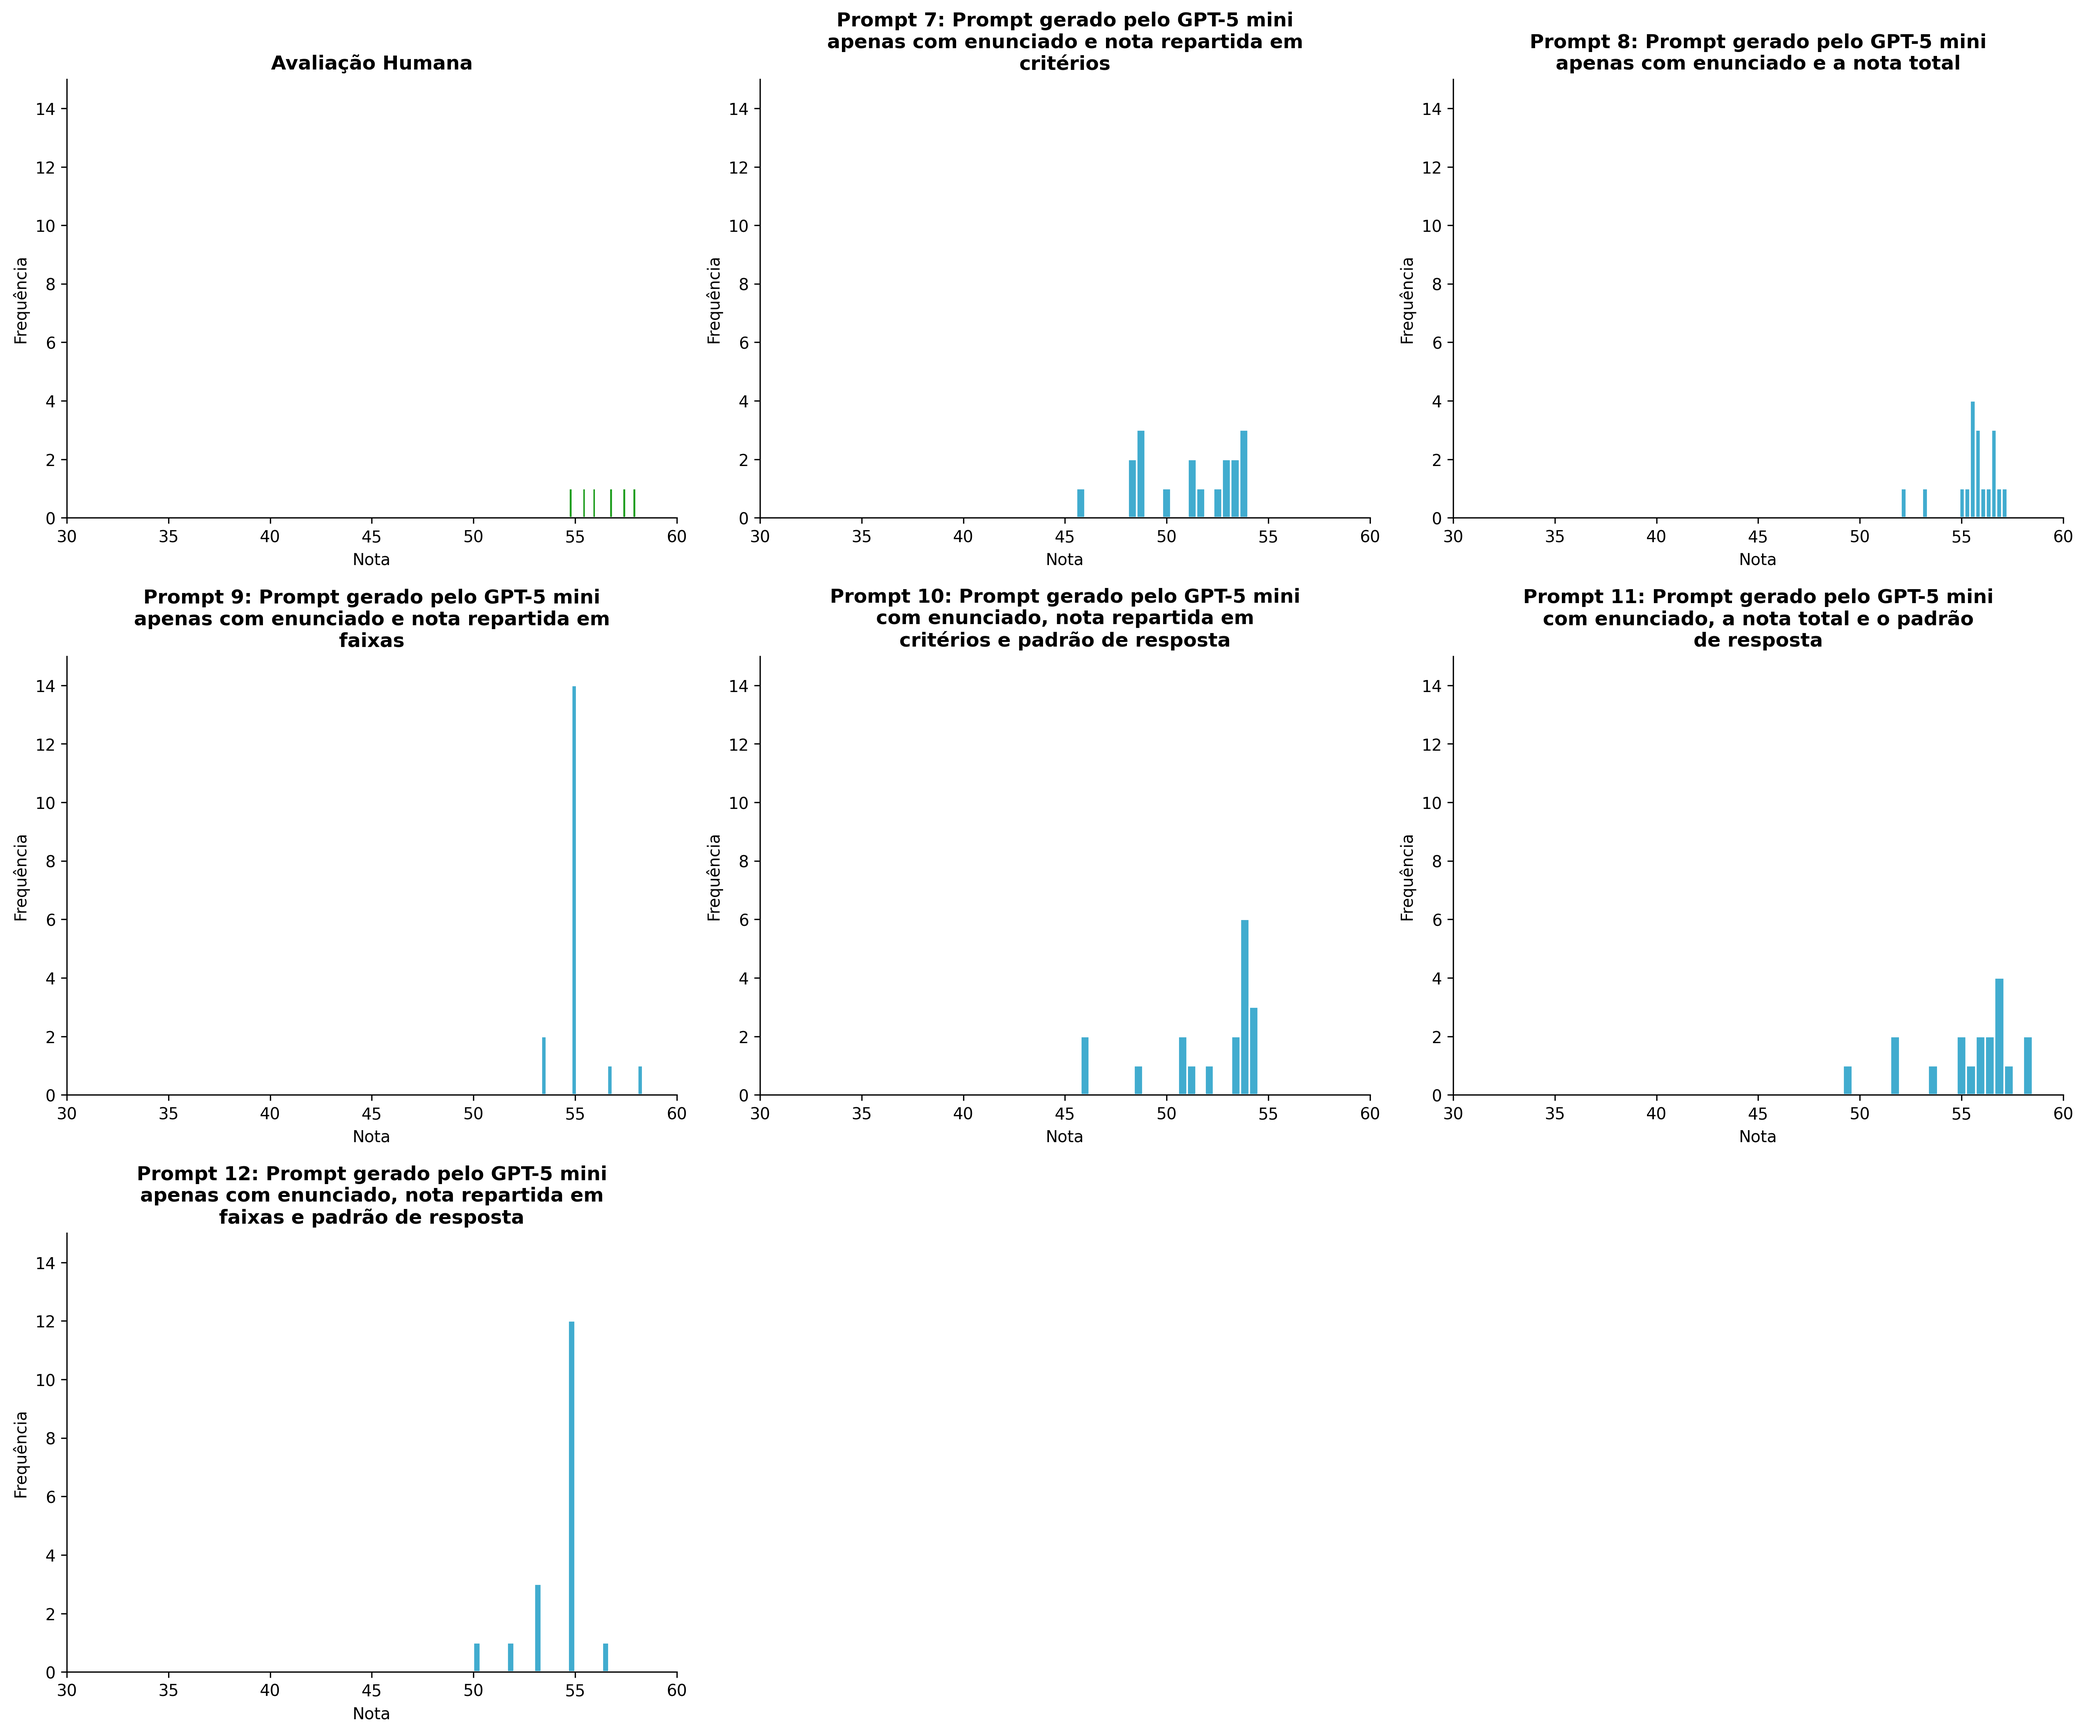
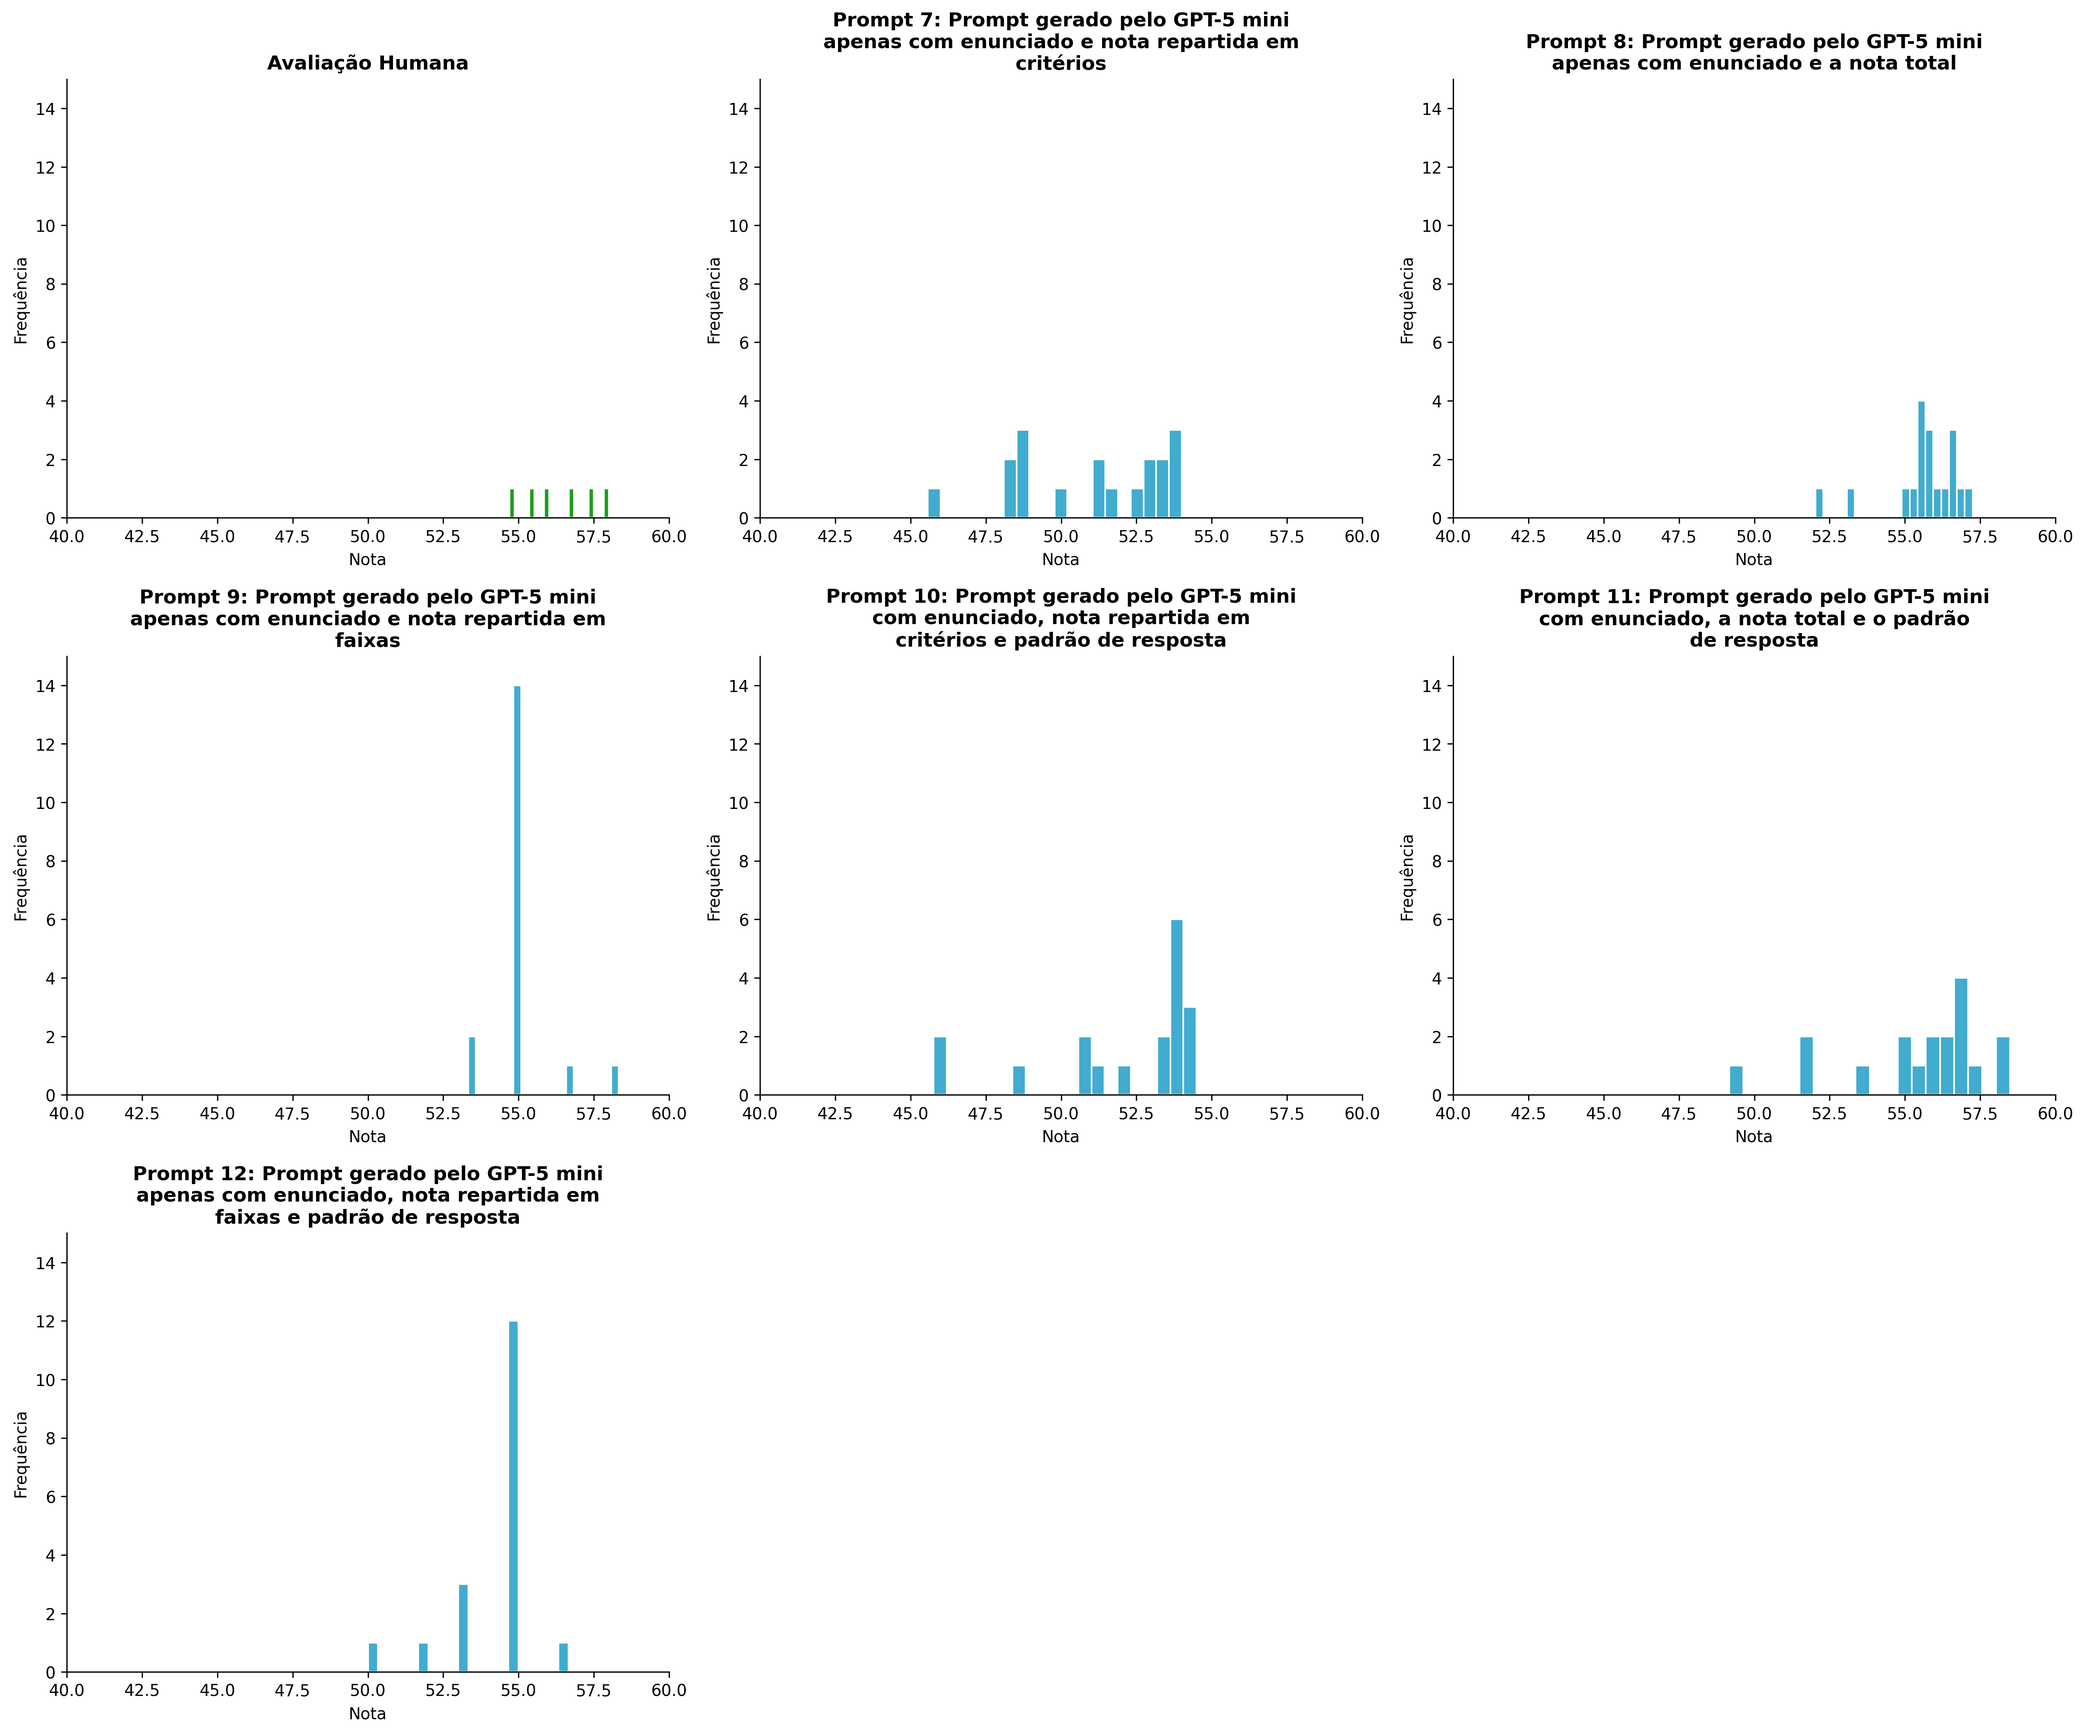
incluindo novas metricas

diff --git a/scripts/analysis_report.py b/scripts/analysis_report.py
@@ -3,6 +3,7 @@ import numpy as np
 import pandas as pd
 import argparse
 from datetime import datetime
+from sklearn.metrics import cohen_kappa_score, roc_auc_score
 
 import yaml
 
@@ -27,8 +28,12 @@ def main(num_runs, eval_path, human_path, model, model_version):
     areas = {}
     for (prompt, temp), group in df_merged.groupby(["prompt", "temp"]):  
         area = np.trapezoid(group["val_error"], group["redacao"])
-        areas[(prompt, temp)] = prompt, temp, area.round(4)
-    df_area_sob_grafico = pd.DataFrame.from_dict(areas, orient='index', columns=['prompt', 'temp', 'area_val_error']).reset_index(drop=True)
+        mae = group['val_error'].mean()
+        rmse = np.sqrt((group['val_error'] ** 2).mean())
+        # qwk = cohen_kappa_score(np.round(group["nota_humana"]).astype(int), np.round(group["nota_final"]).astype(int))
+        # auc_roc = roc_auc_score(np.round(group["nota_humana"]).astype(int), np.round(group["nota_final"]).astype(int))
+        areas[(prompt, temp)] = prompt, temp, area.round(4), mae.round(4), rmse.round(4) #, qwk.round(4), auc_roc.round(4)
+    df_area_sob_grafico = pd.DataFrame.from_dict(areas, orient='index', columns=['prompt', 'temp', 'area_sob_curva', 'mae', 'rmse']).reset_index(drop=True)
 
     # Gerando gráficos
     # 1. Distribuição de Notas
@@ -61,7 +66,7 @@ Nesta seção, apresentamos a comparação entre as notas finais geradas pelo mo
 
 ![Comparação Notas](comparacao_notas.png)
 
-## 3. Análise de Erro de Validação
+## 3. Análise de Erro Absoluto de Validação
 
 <table>
   <tr>

diff --git a/prompt_testing/reports/sabia_v3.1_3_runs/report.md b/prompt_testing/reports/sabia_v3.1_3_runs/report.md
@@ -1,5 +1,5 @@
 # Relatório de Avaliação: sabia v3.1 - 3 execuções
-**Gerado em: 14/01/2026 20:51:22**
+**Gerado em: 18/01/2026 17:33:22**
 
 ## 1. Distribuição de Notas
 Nesta seção comparamos as notas atribuídas pelo modelo sabia em diferentes prompts/temperaturas versus a correção humana.
@@ -11,7 +11,7 @@ Nesta seção, apresentamos a comparação entre as notas finais geradas pelo mo
 
 ![Comparação Notas](comparacao_notas.png)
 
-## 3. Análise de Erro de Validação
+## 3. Análise de Erro Absoluto de Validação
 
 <table>
   <tr>
@@ -25,7 +25,9 @@ Nesta seção, apresentamos a comparação entre as notas finais geradas pelo mo
       <th></th>
       <th>prompt</th>
       <th>temp</th>
-      <th>area_val_error</th>
+      <th>area_sob_curva</th>
+      <th>mae</th>
+      <th>rmse</th>
     </tr>
   </thead>
   <tbody>
@@ -34,108 +36,144 @@ Nesta seção, apresentamos a comparação entre as notas finais geradas pelo mo
       <td>7</td>
       <td>0.0</td>
       <td>25.1000</td>
+      <td>4.6833</td>
+      <td>5.2235</td>
     </tr>
     <tr>
       <th>1</th>
       <td>7</td>
       <td>0.5</td>
       <td>25.6666</td>
+      <td>5.0278</td>
+      <td>5.3628</td>
     </tr>
     <tr>
       <th>2</th>
       <td>7</td>
       <td>0.9</td>
       <td>32.1999</td>
+      <td>6.2000</td>
+      <td>6.8070</td>
     </tr>
     <tr>
       <th>3</th>
       <td>8</td>
       <td>0.0</td>
       <td>5.7917</td>
+      <td>1.1389</td>
+      <td>1.3620</td>
     </tr>
     <tr>
       <th>4</th>
       <td>8</td>
       <td>0.5</td>
       <td>6.7217</td>
+      <td>1.4211</td>
+      <td>1.4892</td>
     </tr>
     <tr>
       <th>5</th>
       <td>8</td>
       <td>0.9</td>
       <td>10.1667</td>
+      <td>1.8889</td>
+      <td>2.4085</td>
     </tr>
     <tr>
       <th>6</th>
       <td>9</td>
       <td>0.0</td>
       <td>7.5000</td>
+      <td>1.5000</td>
+      <td>1.8019</td>
     </tr>
     <tr>
       <th>7</th>
       <td>9</td>
       <td>0.5</td>
       <td>9.1667</td>
+      <td>1.7778</td>
+      <td>2.1573</td>
     </tr>
     <tr>
       <th>8</th>
       <td>9</td>
       <td>0.9</td>
       <td>10.8334</td>
+      <td>2.1111</td>
+      <td>2.5104</td>
     </tr>
     <tr>
       <th>9</th>
       <td>10</td>
       <td>0.0</td>
       <td>22.0334</td>
+      <td>4.1444</td>
+      <td>5.1435</td>
     </tr>
     <tr>
       <th>10</th>
       <td>10</td>
       <td>0.5</td>
       <td>19.6499</td>
+      <td>3.6667</td>
+      <td>4.2447</td>
     </tr>
     <tr>
       <th>11</th>
       <td>10</td>
       <td>0.9</td>
       <td>25.6666</td>
+      <td>4.9444</td>
+      <td>5.7890</td>
     </tr>
     <tr>
       <th>12</th>
       <td>11</td>
       <td>0.0</td>
       <td>14.1667</td>
+      <td>2.8194</td>
+      <td>3.0355</td>
     </tr>
     <tr>
       <th>13</th>
       <td>11</td>
       <td>0.5</td>
       <td>9.8333</td>
+      <td>1.9167</td>
+      <td>2.3989</td>
     </tr>
     <tr>
       <th>14</th>
       <td>11</td>
       <td>0.9</td>
       <td>13.2083</td>
+      <td>2.6250</td>
+      <td>3.5834</td>
     </tr>
     <tr>
       <th>15</th>
       <td>12</td>
       <td>0.0</td>
       <td>7.5000</td>
+      <td>1.5000</td>
+      <td>1.8019</td>
     </tr>
     <tr>
       <th>16</th>
       <td>12</td>
       <td>0.5</td>
       <td>11.9001</td>
+      <td>2.5111</td>
+      <td>3.0317</td>
     </tr>
     <tr>
       <th>17</th>
       <td>12</td>
       <td>0.9</td>
       <td>13.9001</td>
+      <td>2.6222</td>
+      <td>3.2754</td>
     </tr>
   </tbody>
 </table>

diff --git a/prompt_testing/reports/sabia_v3.1_10_runs/report.md b/prompt_testing/reports/sabia_v3.1_10_runs/report.md
@@ -1,5 +1,5 @@
 # Relatório de Avaliação: sabia v3.1 - 10 execuções
-**Gerado em: 16/01/2026 21:13:32**
+**Gerado em: 18/01/2026 17:34:04**
 
 ## 1. Distribuição de Notas
 Nesta seção comparamos as notas atribuídas pelo modelo sabia em diferentes prompts/temperaturas versus a correção humana.
@@ -11,7 +11,7 @@ Nesta seção, apresentamos a comparação entre as notas finais geradas pelo mo
 
 ![Comparação Notas](comparacao_notas.png)
 
-## 3. Análise de Erro de Validação
+## 3. Análise de Erro Absoluto de Validação
 
 <table>
   <tr>
@@ -25,7 +25,9 @@ Nesta seção, apresentamos a comparação entre as notas finais geradas pelo mo
       <th></th>
       <th>prompt</th>
       <th>temp</th>
-      <th>area_val_error</th>
+      <th>area_sob_curva</th>
+      <th>mae</th>
+      <th>rmse</th>
     </tr>
   </thead>
   <tbody>
@@ -34,108 +36,144 @@ Nesta seção, apresentamos a comparação entre as notas finais geradas pelo mo
       <td>7</td>
       <td>0.0</td>
       <td>26.0100</td>
+      <td>4.8400</td>
+      <td>5.4591</td>
     </tr>
     <tr>
       <th>1</th>
       <td>7</td>
       <td>0.5</td>
       <td>25.2500</td>
+      <td>4.8750</td>
+      <td>5.1726</td>
     </tr>
     <tr>
       <th>2</th>
       <td>7</td>
       <td>0.9</td>
       <td>31.3950</td>
+      <td>6.0600</td>
+      <td>6.3669</td>
     </tr>
     <tr>
       <th>3</th>
       <td>8</td>
       <td>0.0</td>
       <td>7.5875</td>
+      <td>1.5917</td>
+      <td>1.6643</td>
     </tr>
     <tr>
       <th>4</th>
       <td>8</td>
       <td>0.5</td>
       <td>7.4550</td>
+      <td>1.4258</td>
+      <td>1.6043</td>
     </tr>
     <tr>
       <th>5</th>
       <td>8</td>
       <td>0.9</td>
       <td>7.9095</td>
+      <td>1.6178</td>
+      <td>1.8255</td>
     </tr>
     <tr>
       <th>6</th>
       <td>9</td>
       <td>0.0</td>
       <td>7.5000</td>
+      <td>1.5000</td>
+      <td>1.8019</td>
     </tr>
     <tr>
       <th>7</th>
       <td>9</td>
       <td>0.5</td>
       <td>7.9833</td>
+      <td>1.6222</td>
+      <td>2.0395</td>
     </tr>
     <tr>
       <th>8</th>
       <td>9</td>
       <td>0.9</td>
       <td>9.9556</td>
+      <td>1.9926</td>
+      <td>2.2390</td>
     </tr>
     <tr>
       <th>9</th>
       <td>10</td>
       <td>0.0</td>
       <td>22.6900</td>
+      <td>4.2067</td>
+      <td>4.9906</td>
     </tr>
     <tr>
       <th>10</th>
       <td>10</td>
       <td>0.5</td>
       <td>23.9250</td>
+      <td>4.4000</td>
+      <td>5.0700</td>
     </tr>
     <tr>
       <th>11</th>
       <td>10</td>
       <td>0.9</td>
       <td>25.1900</td>
+      <td>4.8083</td>
+      <td>5.1844</td>
     </tr>
     <tr>
       <th>12</th>
       <td>11</td>
       <td>0.0</td>
       <td>10.9250</td>
+      <td>2.2792</td>
+      <td>2.3924</td>
     </tr>
     <tr>
       <th>13</th>
       <td>11</td>
       <td>0.5</td>
       <td>11.4425</td>
+      <td>2.1550</td>
+      <td>2.6198</td>
     </tr>
     <tr>
       <th>14</th>
       <td>11</td>
       <td>0.9</td>
       <td>9.6730</td>
+      <td>1.8915</td>
+      <td>2.3154</td>
     </tr>
     <tr>
       <th>15</th>
       <td>12</td>
       <td>0.0</td>
       <td>7.7500</td>
+      <td>1.5833</td>
+      <td>1.9248</td>
     </tr>
     <tr>
       <th>16</th>
       <td>12</td>
       <td>0.5</td>
       <td>10.1500</td>
+      <td>2.1500</td>
+      <td>2.5010</td>
     </tr>
     <tr>
       <th>17</th>
       <td>12</td>
       <td>0.9</td>
       <td>7.9000</td>
+      <td>1.4833</td>
+      <td>2.0628</td>
     </tr>
   </tbody>
 </table>
